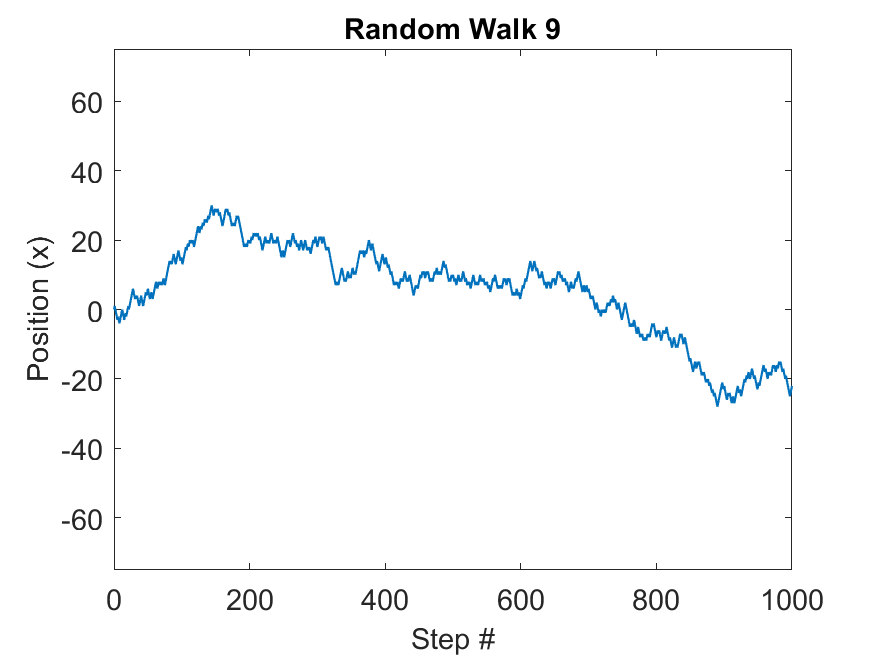
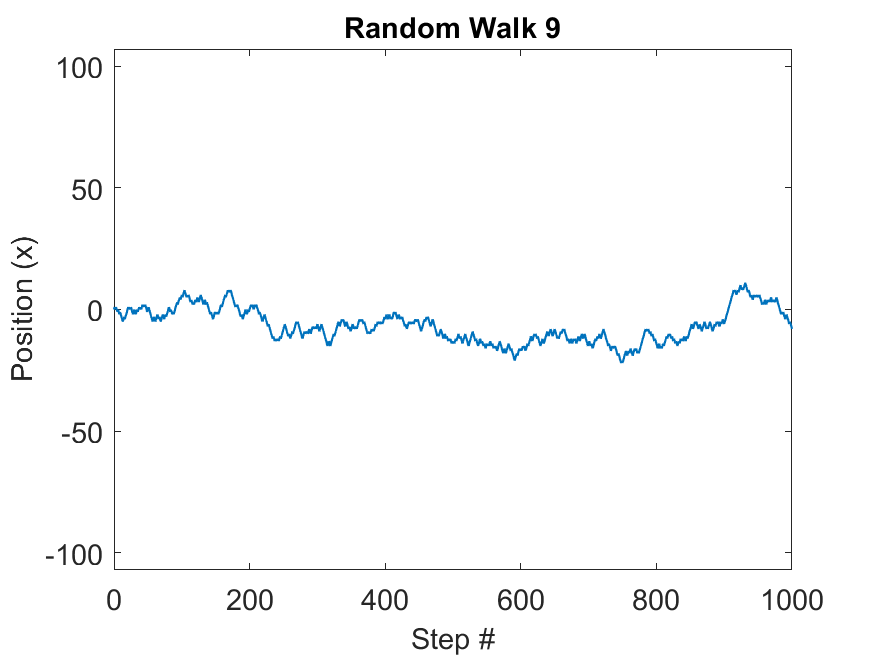
Added 3D visual, consolidated all walks to ND

diff --git a/Brownian Motion/walk3Dvisual.m b/Brownian Motion/walk3Dvisual.m
@@ -1,0 +1,26 @@
+% Provides a visual simulations of a random walk in 3D.
+% If animate=true, shows an animation. If false, just shows the final
+% result instantly.
+animate = true;
+
+startpos = [0,0,0];
+steps = 1000;
+stepsize = 1;
+path = walkND(startpos, steps, stepsize);
+
+for i = 1:steps
+    if (animate || i == steps)
+        plot3(path(1:i,1),path(1:i,2),path(1:i,3),'k--');
+        hold on
+        plot3(path(i,1),path(i,2),path(i,3),'r.','MarkerSize',20);
+        hold off
+        title("3D Random Walk");
+        xlabel("Step #");
+        ylabel("Position");
+        xlim([min(path(:,1)),max(path(:,1))]);
+        ylim([min(path(:,2)),max(path(:,2))]);
+        zlim([min(path(:,3)),max(path(:,3))]);
+        set(gcf,'color','w');
+        pause(0.01);
+    end
+end

diff --git a/Brownian Motion/walk1Dvisual.m b/Brownian Motion/walk1Dvisual.m
@@ -1,12 +1,12 @@
 % Provides a visual simulations of a random walk in 1-dimension.
 % If animate=true, shows an animation. If false, just shows the final
 % result instantly.
-animate = false;
+animate = true;
 
 startpos = 0;
 steps = 1000;
 stepsize = 1;
-path = walk1D(startpos, steps, stepsize);
+path = walkND(startpos, steps, stepsize);
 
 for i = 1:steps
     if (animate || i == steps)
